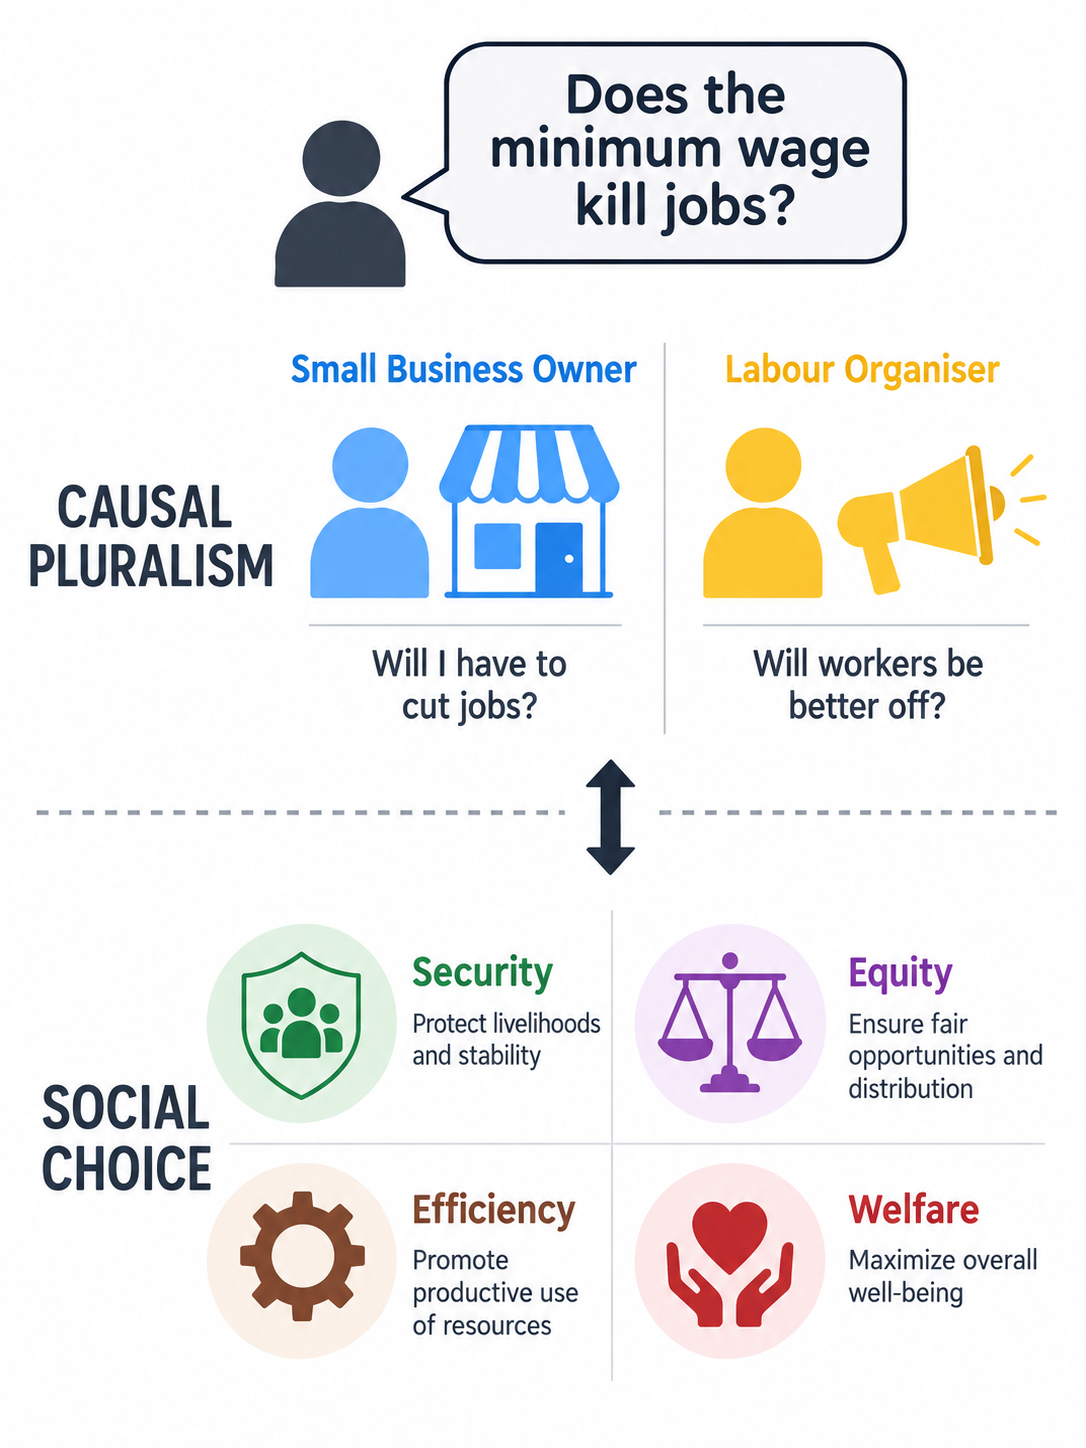
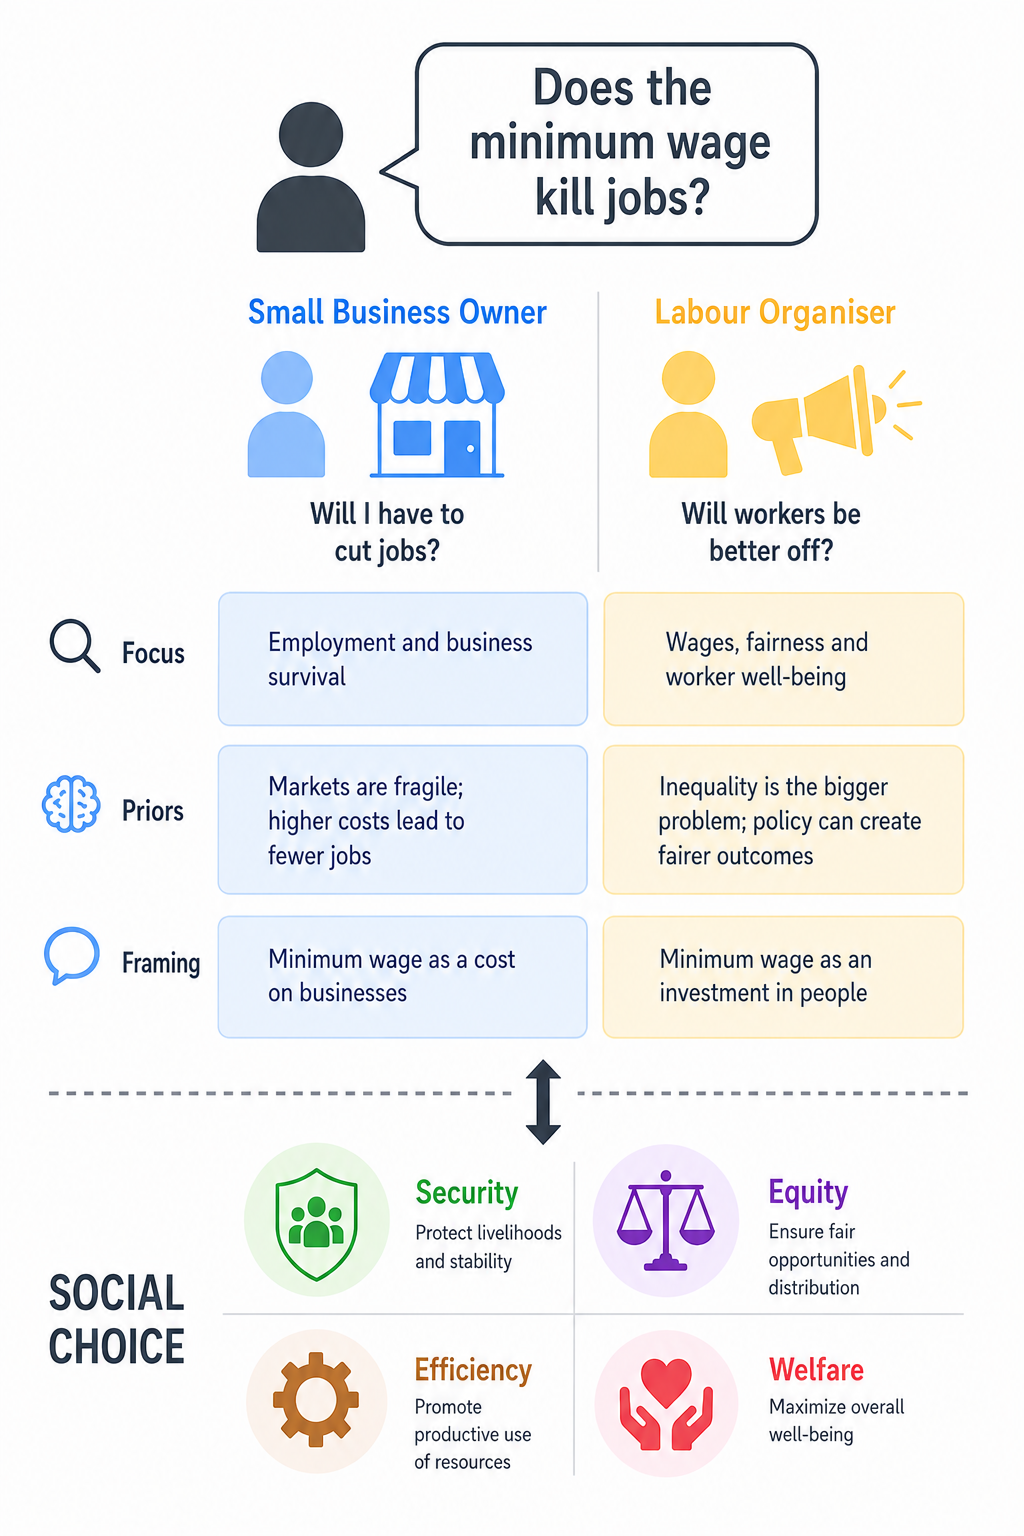
fill out results and discussion

diff --git a/sections/4_results_discussion.tex b/sections/4_results_discussion.tex
@@ -2,37 +2,55 @@
 \label{sec:results}
 
 \begin{figure*}
-    \begin{minipage}{0.5\textwidth}
+    \begin{minipage}{0.33\textwidth}
         \centering
         \includegraphics[width=\linewidth]{images/byline_balanced.png}
         \subcaption{Results for byline manipulation.}
         \label{fig:byline_balanced}
     \end{minipage}
-    \begin{minipage}{0.5\textwidth}
+    \begin{minipage}{0.33\textwidth}
         \centering
         \includegraphics[width=\linewidth]{images/register_balanced.png}
         \subcaption{Results for register manipulation.}
         \label{fig:register_balanced}
     \end{minipage}
-    \caption{Expertise and rhetorical authority manipulation. Results are shown for the balanced conditions, where the number of passages supporting each answer is equal. The x-axis shows the total number of evidence passages. The y-axis shows movement relative to the unperturbed baseline.}
+    \begin{minipage}{0.33\textwidth}
+        \centering
+        \includegraphics[width=0.75\linewidth]{images/matched.png}
+        \subcaption{Difference when limited to shared categories.}
+        \label{fig:matched}
+    \end{minipage}
+    \caption{Expertise and rhetorical authority manipulation. The first two panels show the byline and register manipulations. Solid lines give results with one passage per side; dashed lines give results with three passages per side. The same questions are used at both evidence sizes. The third panel restricts the questions to categories that contain both epistemic and aleatoric questions; only ten questions pass this filter. Filled icons mark the matched condition, hollow icons the full set of selected questions. In all three panels, the x-axis shows movement towards \emph{yes} (positive) or towards \emph{no} (negative).}
     \label{fig:expertise_results}
 \end{figure*}
 
-Figure~\ref{fig:expertise_results} shows results for the first experiment, which manipulates expertise signals. Models privilege expertise inconsistently when it is relevant to the question, and the pattern depends on model size. The smaller \texttt{Llama-3.1-8B} model privileges expert bylines for both epistemic and aleatoric questions. This effect grows as more passages support each answer, and it is stronger for the epistemic questions. The larger \texttt{Llama-3.3-70B} model shows no significant movement on the byline perturbation.
+Figure~\ref{fig:expertise_results} shows results for the first experiment, which manipulates expertise signals. Models privilege expertise inconsistently when it is relevant to the question, and the pattern depends on model size. The smaller \texttt{Llama-3.1-8B} model privileges expert bylines for both epistemic and aleatoric questions. The effect grows as more passages support each answer, and it is stronger for epistemic questions. The larger \texttt{Llama-3.3-70B} model shows no significant movement under the byline perturbation.
 
-The academic register shows an unexpected effect reversal. Applied to the \emph{yes} passages, it moves neither model significantly towards \emph{yes}; applied to the \emph{no} passages, it moves both models significantly towards \emph{yes}. The smaller \texttt{Llama-3.1-8B} model behaves the same way under the expert byline, moving significantly towards \emph{yes} when the byline is applied to the \emph{no} passages.
+The academic register reverses direction unexpectedly. Applied to the \emph{yes} passages, it moves neither model significantly towards \emph{yes}; applied to the \emph{no} passages, it moves both models significantly towards \emph{yes}. The expert byline produces the same reversal in the smaller model, which moves significantly towards \emph{yes} when the byline is applied to the \emph{no} passages.
 
-As we discuss in Appendix~\ref{appendix_sub:prompts}, the \emph{yes} passages always appear first, followed by the \emph{no} passages. The lost-in-the-middle effect, compounded by the recency effect, may explain this asymmetry \citep{liu-etal-2024-lost,veseli2025positional,yi-etal-2026-attention}. In the smaller 8B model, many prompts approach the maximum context window (see Appendices~\ref{appendix_sub:models} and~\ref{appendix_sub:prompts} for context windows and prompt sizes), which might be why its effect sizes exceed those of the 70B model. This account does not explain why the register perturbation on the \emph{no} passages moves answers towards \emph{yes}; that result warrants further investigation.
+As we discuss in Appendix~\ref{appendix_sub:prompts}, the \emph{yes} passages always appear first, followed by the \emph{no} passages. The lost-in-the-middle effect, compounded by the recency effect, may explain this asymmetry \citep{liu-etal-2024-lost,veseli2025positional,yi-etal-2026-attention}. In the 8B model, many prompts approach the maximum context window (see Appendices~\ref{appendix_sub:models} and~\ref{appendix_sub:prompts} for context windows and prompt sizes), which may be why its effect sizes exceed those of the 70B model. This account does not explain why the register perturbation on the \emph{no} passages moves answers towards \emph{yes}. A second factor may confound the result: the questions are unevenly distributed across categories (see Appendix~\ref{appendix_sub:dataset}), and the register perturbation may act differently in different categories.
 
+Figure~\ref{fig:matched} restricts the questions to categories that contain both epistemic and aleatoric questions. Only ten questions pass this filter, so we draw no strong conclusions, but the inconsistencies between the two question types persist. They may therefore stem not from the distribution of questions across categories but from other factors, presentation among them. Disentangling these effects requires a larger experiment with more questions per category.
 
-\begin{itemize}
-    \item add unbalanced experiment results
-    \item add register x byline results <-- these might be more interesting
-\end{itemize}
+\begin{figure}[ht!]
+    \includegraphics[width=\linewidth]{images/register_byline_interaction.png}
+    \caption{Interaction between register and byline manipulations. The x-axis shows whether compounding helps (positive) or hurts (negative) align the model with the expert perspective.}
+    \label{fig:register_byline_interaction}
+\end{figure}
+
+We also investigate whether the register and byline manipulations interact. Figure~\ref{fig:register_byline_interaction} shows that they compound inconsistently across models and evidence directions. The smaller \texttt{Llama-3.1-8B} model compounds them for epistemic questions when more passages support the \emph{no} perspective; the larger model does so for the \emph{yes} perspective. For aleatoric questions the interaction appears to reverse, pushing the model away from the expert perspective. This reversal warrants further investigation.
 
 \section{Discussion}
+\label{sec:discussion}
 
-\begin{itemize}
-    \item add the note about how ordering has an impact -- this will naturally be a limitation of RAG systems and *may* contribute to a lack of pluralistic groundedness. Would depend on the retrieval layer.
-    \item we discuss only one social choice feature "expertise" across a number of questions in multiple domains, larger experiments must be done to see how expertise will interact with other feature (e.g. given an epistemic question about buddhism, should a practising buddhist's opinion be valued more than a christian who is a buddhist scholar? given an aleatoric question about giving candy to kids of particular days should a parent's opinion be more valued than a non-parent's opinion?)
-\end{itemize}
+\begin{figure}
+    \includegraphics[width=\linewidth]{images/stability.png}
+    \caption{Stability under passage order and selection perturbations. The x-axis shows the percentage of questions for which the model's answer changed under different random seeds or passages.}
+    \label{fig:stability}
+\end{figure}
+
+Where evidence sits in the prompt strongly affects the model's answer. This is a known limitation of RAG systems \citep{liu-etal-2024-lost,veseli2025positional,yi-etal-2026-attention,naphade-2026-rational}, and it bears directly on the pluralistic groundedness of their answers. We ran two further experiments: one shuffled the order of the passages under five random seeds, the other re-drew the sample of passages for each answer. Figure~\ref{fig:stability} shows that the answers are unstable under both perturbations. The smaller \texttt{Llama-3.1-8B} model is the more sensitive to passage selection, the larger \texttt{Llama-3.3-70B} model to passage order. The instability originates in the retrieval layer, but whether the aggregation layer can mitigate it remains open; a mixture of models, or inference-time strategies robust to order and selection, may help. We leave this to future work.
+
+This instability clouds the results above, since separating the effects of passage order and selection from the effects of expertise signals will take further experiments. Even so, the inconsistency of the byline and register manipulations across models and question types suggests that the models are \emph{sensitive} to expertise signals without being aligned with human judgements of expertise. The compounding of the two manipulations under larger evidence sets further suggests that models grow more sensitive to register as evidence accumulates, which threatens the robustness of their answers.
+
+Further work is also needed on how expertise interacts with other social choice features. We examine one feature, expertise, across questions in multiple domains; larger experiments must establish how it combines with others. Given an epistemic question about Buddhism, should a practising Buddhist's opinion outweigh that of a Christian who studies Buddhism? Given an aleatoric question about giving children candy on particular days, should a parent's opinion outweigh a non-parent's?

diff --git a/sections/3_experiment.tex b/sections/3_experiment.tex
@@ -3,15 +3,15 @@
 
 To illustrate our social choice formulation of pluralistic groundedness, we conduct a proof-of-concept experiment on \textsc{ConflictingQA} \citep{wan-etal-2024-evidence}, a benchmark designed to evaluate retrieval-augmented generation under conflicting evidence. We view evidence aggregation as a social choice process, where retrieved passages represent competing viewpoints and the language model implements the aggregation rule that determines how much influence each viewpoint receives.
 
-Our experiment\footnote{TODO: Code can be found at \url{CLEAN UP CODE}.} investigates one fundamental property of this aggregation rule: whether RAG systems privilege expertise appropriately. We distinguish between \emph{epistemic} and \emph{aleatoric} questions. Epistemic questions concern an objective state of the world and therefore warrant greater weight for relevant expertise: for \emph{Can stalactites form underwater?}, a geologist's judgement should outweigh a layperson's. Aleatoric questions admit several simultaneously valid perspectives, and expertise should not necessarily dominate: for \emph{Can money buy happiness?}, an economist's judgement should not automatically override a layperson's. Under our framework, the appropriate weighting of expertise is therefore question-dependent rather than uniform across retrieval settings.
+Our experiment\footnote{Code can be found on GitHub. Link anonymised for submission.} investigates one fundamental property of this aggregation rule: whether RAG systems privilege expertise appropriately. We distinguish between \emph{epistemic} and \emph{aleatoric} questions. Epistemic questions concern an objective state of the world and therefore warrant greater weight for relevant expertise: for \emph{Can stalactites form underwater?}, a geologist's judgement should outweigh a layperson's. Aleatoric questions admit several simultaneously valid perspectives, and expertise should not dominate: for \emph{Can money buy happiness?}, an economist's judgement should not automatically override a layperson's. The appropriate weighting of expertise is therefore question-dependent, not uniform across retrieval settings.
 
-To test this hypothesis, we independently manipulate two signals of expertise within retrieved passages: byline and register. Both cues change the perceived authority of a passage without altering its substantive content. They therefore let us ask whether RAG systems respond to genuine indicators of expertise, to superficial signals of authority, or to both, and whether that weighting shifts appropriately between epistemic and aleatoric questions.
+To test this hypothesis, we independently manipulate two signals of expertise within retrieved passages: byline and register. Both cues change the perceived authority of a passage without altering its substantive content. They therefore let us ask two questions: do RAG systems respond to genuine indicators of expertise, to superficial signals of authority, or to both; and does that weighting shift appropriately between epistemic and aleatoric questions?
 
-We outline the dataset and experimental design below, with a more detailed description of the experimental setup in Appendix~\ref{appendix:experiment}.
+We outline the dataset and experimental design below. Appendix~\ref{appendix:experiment} describes the setup in full.
 
 \subsection{Dataset}
 
-\textsc{ConflictingQA} consists of contested yes-or-no questions paired with passages that support opposing answers. The questions span nineteen domains across the social and natural sciences, humanities, and applied fields. Each example contains a query, a set of passages supporting a \textit{yes} answer, and a set of passages supporting a \textit{no} answer. For example, a question such as \textit{Is aspartame linked to cancer?} is paired with evidence representing both the claim that such a link exists and the claim that current evidence does not support such a link.
+\textsc{ConflictingQA} consists of contested yes-or-no questions paired with passages that support opposing answers. The questions span nineteen domains across the social and natural sciences, the humanities, and applied fields. Each example contains a query, a set of passages supporting a \textit{yes} answer, and a set of passages supporting a \textit{no} answer. The question \textit{Is aspartame linked to cancer?}, for instance, is paired with evidence for the link and evidence that no such link has been established.
 
 \begin{figure}[ht!]
     \centering
@@ -25,12 +25,19 @@ We outline the dataset and experimental design below, with a more detailed descr
 We construct controlled probes that vary properties of the retrieved evidence while keeping the underlying question fixed (see Figure~\ref{fig:experiment}). These probes test whether models respond to evidence itself or to incidental features of its presentation.
 
 \paragraph{Expertise and Rhetorical Authority.}
-The first probe examines how models weight signals of authority when aggregating conflicting evidence. Authority can be a legitimate component of evidence aggregation: for some questions, domain expertise should influence how evidence is weighted. When evaluating whether aspartame is linked to cancer, for example, the judgement of a qualified scientist may deserve more weight than the opinion of a non-expert. Models may also, however, mistake rhetorical confidence or formal style for expertise.
+The first probe examines how models weight signals of authority when aggregating conflicting evidence. Authority is sometimes a legitimate consideration: when evaluating whether aspartame is linked to cancer, the judgement of a qualified scientist may deserve more weight than the opinion of a non-expert. Models may also, however, mistake rhetorical confidence or formal style for expertise.
 
-To separate these effects, we create evidence variants that alter how a passage is presented while holding its underlying claims constant. The \emph{register} manipulation rewrites the passage in either an academic register, which uses formal and hedged specialist language, or a casual register, which uses conversational language. The \emph{byline} manipulation tags the passage with author metadata naming the writer's profession. Together they test whether models respond to authority cues appropriately.
+To separate these effects, we create evidence variants that alter how a passage is presented while holding its underlying claims constant. The \emph{register} manipulation rewrites the passage either in an academic register, using formal and hedged specialist language, or in a casual register, using conversational language. The \emph{byline} manipulation tags the passage with author metadata naming the writer's profession. Together they test whether models respond to authority cues appropriately.
 
 
 \paragraph{Evidence Balance.}
-The second probe varies the number of passages supporting each answer. The balanced conditions test whether models produce consistent judgements when the amount of evidence changes but the balance of perspectives remains fixed. The asymmetric conditions test whether models track differences in evidence coverage, and the one-sided conditions test whether models introduce unsupported disagreement when only one position is represented.
+The second probe varies the number of passages supporting each answer. The balanced conditions test whether models judge consistently when the amount of evidence changes but the balance of perspectives holds fixed. The asymmetric conditions test whether models track differences in evidence coverage; the one-sided conditions test whether models introduce unsupported disagreement when only one position is represented.
 
-Together, these probes test whether models aggregate evidence according to appropriate signals rather than relying on simple heuristics. A faithful aggregator should respond to meaningful differences between evidence sources, such as expertise when domain knowledge is relevant, while avoiding unwarranted sensitivity to superficial features such as rhetorical confidence. It should also adjust its conclusions when the distribution of evidence changes without introducing unsupported perspectives.
+Concretely, we ask three questions:
+\begin{itemize}
+    \item[Q1:] Do models privilege expertise when the question is epistemic and not when the question is aleatoric?
+    \item[Q2:] How do models interact with the register and byline manipulations?
+    \item[Q3:] How do models respond to changes in the number of passages supporting each answer?
+\end{itemize}
+
+Together, these probes test whether models aggregate evidence by appropriate signals rather than by simple heuristics. A faithful aggregator should respond to meaningful differences between sources, such as expertise when domain knowledge is relevant, and should ignore superficial features such as rhetorical confidence. It should also adjust its conclusions when the distribution of evidence changes, without introducing unsupported perspectives.

diff --git a/sections/A_dataset.tex b/sections/A_dataset.tex
@@ -205,7 +205,7 @@ We use the system and user prompts below to elicit answers from the models. The 
 \begin{framed}
 \textbf{System Prompt}
 
-You answer yes/no questions using only the passages provided.Do not use outside knowledge about the topic.
+You answer yes/no questions using only the passages provided. Do not use outside knowledge about the topic.
 
 The passages are drawn from the open web and may disagree with eachother. When they do, weigh them and say which way the balance falls; ifthey genuinely do not settle the question, answer ``unclear'' rather thanpicking a side to seem decisive.
 
@@ -252,7 +252,8 @@ Table~\ref{tab:prompt_tokens} reports token counts for the prompts used in our e
 \end{table}
 
 \subsection{Dataset}
-We use the ConflictingQA dataset \citep{wan-etal-2024-evidence} for our experiments. The original dataset contains 419 questions, from which we manually select 90: 45 epistemic and 45 aleatoric. Tables~\ref{tab:epistemic_questions} and~\ref{tab:aleatoric_questions} list these questions with their categories.
+\label{appendix_sub:dataset}
+We use the ConflictingQA dataset \citep{wan-etal-2024-evidence} for our experiments. The original dataset contains 419 questions, from which we manually select 90: 45 epistemic and 45 aleatoric. Tables~\ref{tab:epistemic_questions} and~\ref{tab:aleatoric_questions} list these questions with their categories. Table~\ref{tab:category-axis} shows the number of questions per category for each question type. We note that the epistemic questions are more heavily concentrated in the medicine and life sciences categories, while the aleatoric questions are more concentrated in the philosophy and religion categories. This is a natural consequence of the question types: epistemic questions are more likely to be grounded in scientific evidence, while aleatoric questions are more likely to be grounded in social and cultural norms.
 
 \begin{table*}[t]
 \small
@@ -371,4 +372,35 @@ We use the ConflictingQA dataset \citep{wan-etal-2024-evidence} for our experime
 \label{tab:aleatoric_questions}
 \end{table*}
 
-
+\begin{table}[t]
+\centering
+\small
+\begin{tabular}{lrr}
+\toprule
+\textbf{Category Group} & \textbf{Aleatoric} & \textbf{Epistemic} \\
+\midrule
+\cat{food}{Agriculture \& Food}     & 1  & 2  \\
+\cat{arts}{Arts \& Media}           & 3  & 4  \\
+\cat{computing}{Computing \& Data}       & 0  & 3  \\
+\cat{earth}{Earth \& Environment}    & 1  & 6  \\
+\cat{economy}{Economy \& Work}         & 2  & 1  \\
+\cat{education}{Education}               & 1  & 1  \\
+\cat{engineering}{Engineering \& Technology} & 1 & 2 \\
+\cat{paranormal}{Fringe \& Paranormal}    & 1  & 0  \\
+\cat{history}{History \& Archaeology}  & 0  & 2  \\
+\cat{language}{Language \& Literature}  & 4  & 0  \\
+\cat{life}{Life Sciences}           & 1  & 3  \\
+\cat{lifestyle}{Lifestyle \& Wellness}   & 1  & 0  \\
+\cat{medicine}{Medicine \& Health}      & 1  & 12 \\
+\cat{mind}{Mind \& Behaviour}       & 1  & 1  \\
+\cat{philosophy}{Philosophy \& Religion}  & 17 & 0  \\
+\cat{physical}{Physical Sciences}       & 0  & 4  \\
+\cat{politics}{Politics \& Law}         & 4  & 0  \\
+\cat{society}{Society \& Culture}      & 6  & 1  \\
+\midrule
+\textbf{Total}          & \textbf{45} & \textbf{45} \\
+\bottomrule
+\end{tabular}
+\caption{Distribution of unique questions by category group and question axis.}
+\label{tab:category-axis}
+\end{table}

diff --git a/sections/5_opposing_perspectives.tex b/sections/5_opposing_perspectives.tex
@@ -1,6 +1,8 @@
 \section{Alternative Views}
 \label{sec:alternative_views}
 
+We focus our discussion on applying social choice principles to the aggregation layer of RAG systems. However, as our experiments show, the retrieval layer has a strong impact on the model's answer. Ultimately, if diverse outputs are removed at the retrieval layer, then the aggregation layer will have minimal impact on the model's answer. 
+
 \begin{itemize}
     \item When is this actually useful? Are people using RAG for non-factual questions?
     \item Social choice is the wrong formalism. Voting rules assume a fixed set of alternatives and comparable ballots, and a document corpus supplies neither.

diff --git a/sections/1_introduction.tex b/sections/1_introduction.tex
@@ -10,7 +10,7 @@ Groundedness is commonly understood as fidelity to the retrieved context. We arg
 \begin{figure}
     \centering
     \includegraphics[width=0.8\linewidth]{images/causal_pluralism_social_choice.png}
-    \caption{Social choice principles across pluralistic causal mechanisms.}
+    \caption{Decision making for an aleatoric question.}
     \label{fig:causal_pluralism_social_choice}
 \end{figure}
 
